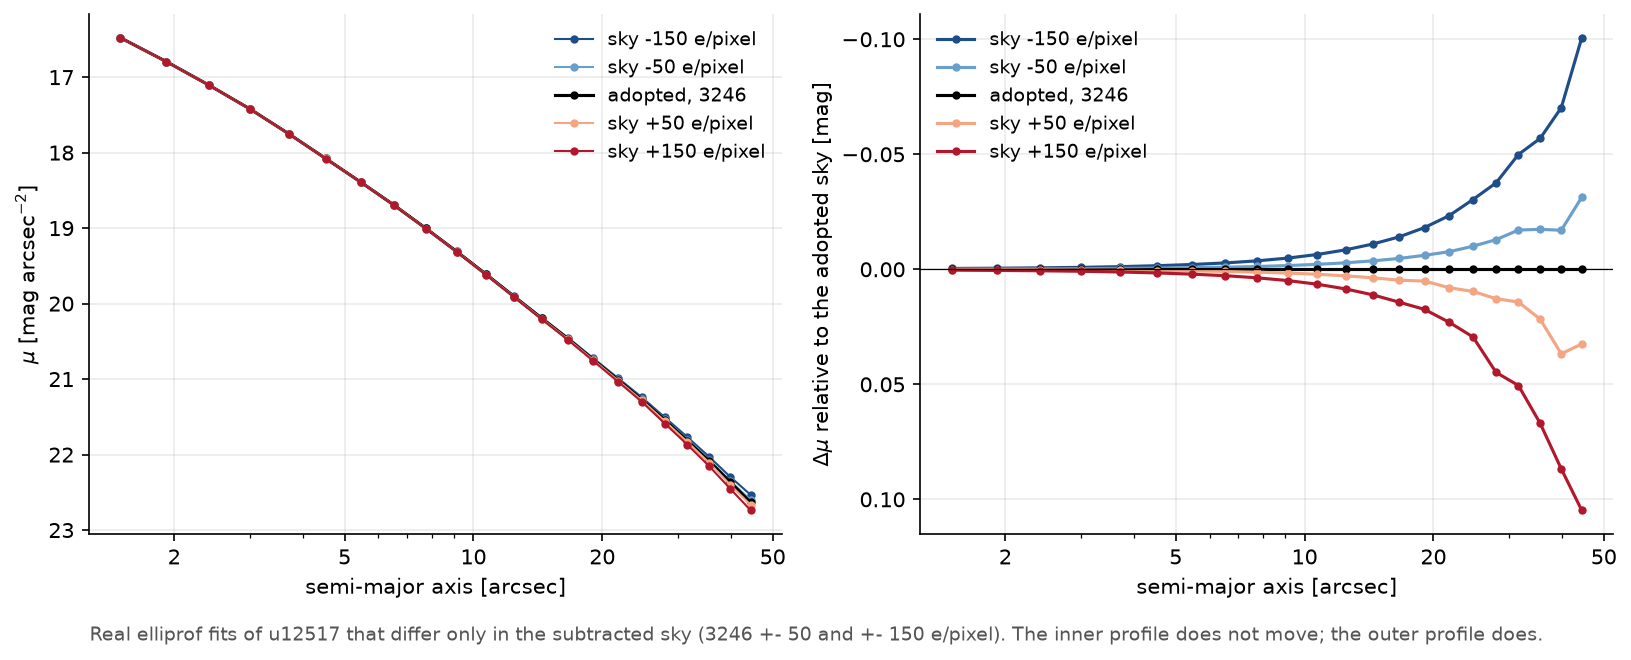
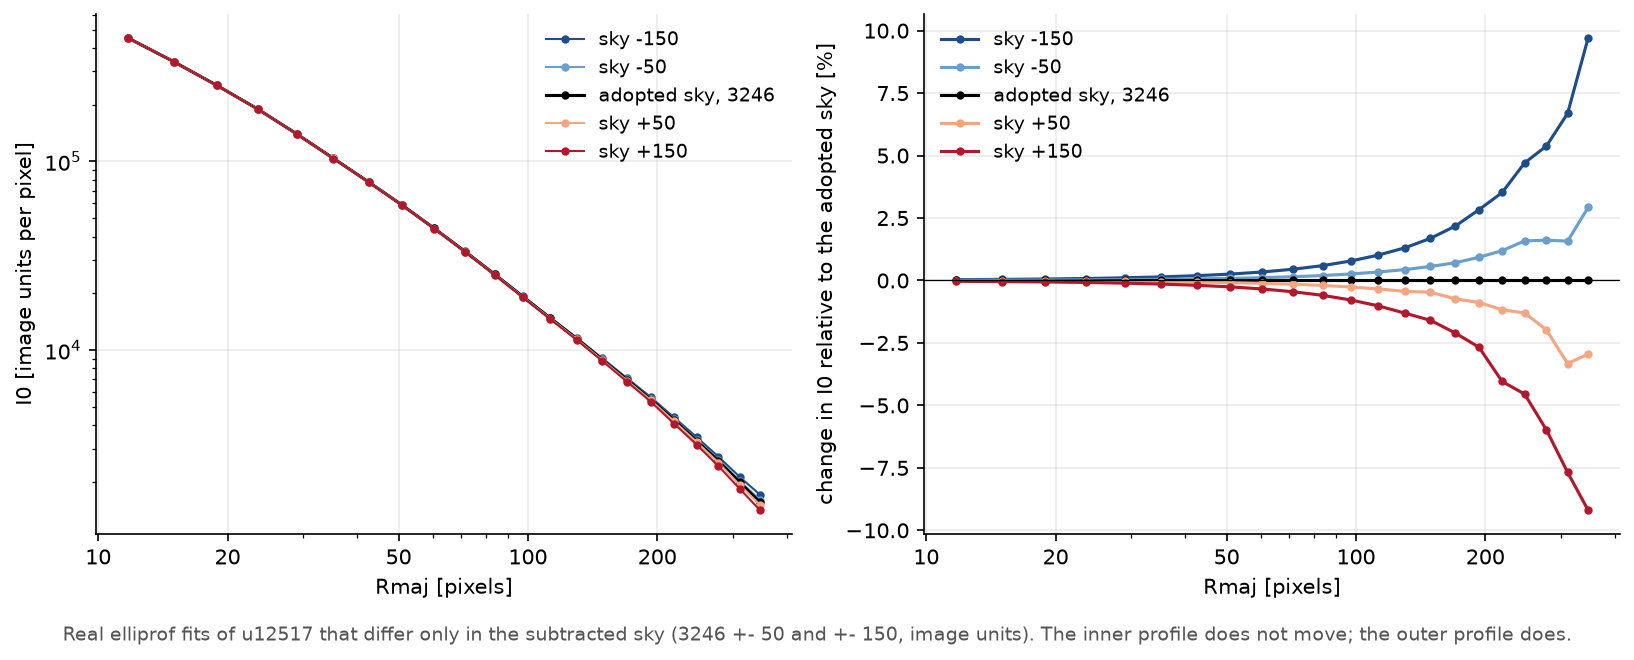
Docs: do not present a calibrated profile for the UGC 12517 example
The image header (BUNIT = ELECTRONS/S) and examples/u12517/calibrate.dat
disagree about the pixel units, so remove the mag/arcsec^2 figure and
values and show the example only in measured image units. The sky test
now plots I0 and its percentage change, which need no zeropoint. The
warning states the inconsistency without choosing an interpretation.

diff --git a/docs/scripts/make_profile_plots.py b/docs/scripts/make_profile_plots.py
@@ -1,15 +1,12 @@
 """Profile figures from the real u12517 fit: the full set of profile
-columns, a calibrated surface-brightness profile and the effect of the sky
-level on the outer profile.
+columns and the effect of the sky level on the outer profile.
 
     python docs/scripts/make_profile_plots.py
 
-The calibration numbers come from examples/u12517/calibrate.dat (from the
-original analysis; elliprof itself does not read that file):
-    SECPIX = 0.128 arcsec/pixel,  M1STAR_J = 35.081 ("m for 1e- net"),
-    SKY_J = 3250 ("e/pixel"), SKYMAG_J = 21.84 mag/arcsec^2.
-PROVISIONAL: the image header says BUNIT = ELECTRONS/S, while these numbers
-are consistent with pixel values in total electrons.  Unresolved; see
+Everything is in the measured image units.  No photometric calibration is
+applied: the units of the example image are unresolved (its header says
+BUNIT = ELECTRONS/S, while examples/u12517/calibrate.dat is internally
+consistent only with total electrons); see
 docs/science/surface-photometry.md.
 """
 
@@ -20,13 +17,7 @@ import common as C
 from elliprof import read_profile
 
 plt.rcParams.update(C.STYLE)
-SCALE, M1STAR = 0.128, 35.081
 PROF = C.products()["profile"].iloc[1:]     # r = 9 lies in the masked nucleus
-
-
-def mu(intensity):
-    """mag/arcsec^2 from counts per pixel (no extinction or K-correction)."""
-    return M1STAR - 2.5 * np.log10(intensity / SCALE ** 2)
 
 
 def unwrap(alpha):
@@ -69,32 +60,9 @@ def profile_panels():
     C.save(fig, "profile_panels.png")
 
 
-def surface_brightness():
-    r_as = PROF.Rmaj * SCALE
-    fig, axes = plt.subplots(1, 2, figsize=(11, 4.2))
-    for ax, x, lab in ((axes[0], r_as, "semi-major axis [arcsec]"),
-                       (axes[1], r_as ** 0.25, "(semi-major axis / arcsec)^(1/4)")):
-        ax.plot(x, mu(PROF.I0), "o-", ms=3, color=C.INK)
-        ax.axhline(21.84, color=C.ACCENT, ls="--", lw=1)
-        ax.text(x.iloc[0], 21.84 - 0.25, "sky: 21.84 mag/arcsec$^2$",
-                color=C.ACCENT, fontsize=9)
-        ax.set_xlabel(lab)
-        ax.set_ylabel(r"$\mu$ [mag arcsec$^{-2}$]")
-        ax.invert_yaxis()
-    C.logx(axes[0])
-    axes[1].set_title("A de Vaucouleurs r$^{1/4}$ law is a straight line here",
-                      fontsize=10)
-    fig.text(0.5, -0.03, r"$\mu = m_{1\star} - 2.5\log_{10}(I_0 / s^2)$ with "
-             r"$m_{1\star}=35.081$ (M1STAR_J, calibrate.dat), "
-             r"$s = 0.128''$/pixel. PROVISIONAL: image units unresolved "
-             "(BUNIT vs calibrate.dat). No extinction or K-correction.",
-             ha="center", fontsize=9, color="#555555")
-    fig.tight_layout()
-    C.save(fig, "surface_brightness_u12517.png")
-
-
 def sky_sensitivity():
-    """Real re-fits with the subtracted sky changed by +-1.5% and +-4.6%."""
+    """Real re-fits with the subtracted sky changed by +-50 and +-150 image
+    units (the adopted sky is 3246)."""
     skies = (3096.0, 3196.0, 3246.0, 3296.0, 3396.0)
     colours = ("#1d4e89", "#6a9fcb", "k", "#f4a582", "#b2182b")
     prof = {}
@@ -108,30 +76,27 @@ def sky_sensitivity():
     for sky, col in zip(skies, colours):
         p = prof[sky]
         d = sky - 3246.0
-        lab = "adopted, 3246" if d == 0 else f"sky {d:+.0f} e/pixel"
-        r = p.Rmaj * SCALE
-        axes[0].plot(r, mu(np.clip(p.I0, 1e-3, None)), "o-", ms=3,
-                     color=col, label=lab, lw=1.5 if d == 0 else 1)
-        axes[1].plot(r, mu(np.clip(p.I0, 1e-3, None)) - mu(ref.I0), "o-",
-                     ms=3, color=col, label=lab)
-    axes[0].set_ylabel(r"$\mu$ [mag arcsec$^{-2}$]")
-    axes[0].invert_yaxis()
-    axes[1].set_ylabel(r"$\Delta\mu$ relative to the adopted sky [mag]")
+        lab = "adopted sky, 3246" if d == 0 else f"sky {d:+.0f}"
+        axes[0].plot(p.Rmaj, p.I0, "o-", ms=3, color=col, label=lab,
+                     lw=1.5 if d == 0 else 1)
+        axes[1].plot(p.Rmaj, 100 * (p.I0 / ref.I0 - 1), "o-", ms=3,
+                     color=col, label=lab)
+    axes[0].set_yscale("log")
+    axes[0].set_ylabel("I0 [image units per pixel]")
+    axes[1].set_ylabel("change in I0 relative to the adopted sky [%]")
     axes[1].axhline(0, color="k", lw=0.6)
-    axes[1].invert_yaxis()
     for ax in axes:
         C.logx(ax)
-        ax.set_xlabel("semi-major axis [arcsec]")
+        ax.set_xlabel("Rmaj [pixels]")
         ax.legend(frameon=False, fontsize=9)
     fig.text(0.5, -0.03, "Real elliprof fits of u12517 that differ only in "
-             "the subtracted sky (3246 +- 50 and +- 150 e/pixel). The inner "
-             "profile does not move; the outer profile does.", ha="center",
-             fontsize=9, color="#555555")
+             "the subtracted sky (3246 +- 50 and +- 150, image units). The "
+             "inner profile does not move; the outer profile does.",
+             ha="center", fontsize=9, color="#555555")
     fig.tight_layout()
     C.save(fig, "sky_sensitivity.png")
 
 
 if __name__ == "__main__":
     profile_panels()
-    surface_brightness()
     sky_sensitivity()

diff --git a/docs/scripts/make_isophote_diagram.py b/docs/scripts/make_isophote_diagram.py
@@ -192,7 +192,7 @@ def rmstar():
     axes[1].text(2, top, "  (bright peaks run off the top)", fontsize=8,
                  va="top", color="#555555")
     axes[1].set_xlabel("eccentric angle [deg]")
-    axes[1].set_ylabel("science - sky [e/pixel]")
+    axes[1].set_ylabel("science - sky [image units]")
     axes[1].set_xlim(0, 359)
     axes[1].legend(frameon=False, fontsize=8, loc="upper left",
                    bbox_to_anchor=(0, -0.14), ncol=4)

diff --git a/docs/science/surface-photometry.md b/docs/science/surface-photometry.md
@@ -32,51 +32,32 @@ For publication-quality photometry you would also correct for Galactic
 extinction and, for distant galaxies, apply a K-correction and the
 $(1+z)^4$ cosmological surface-brightness dimming.
 
-### Worked example: UGC 12517
+### The UGC 12517 example is not calibrated
 
-The repository's `examples/u12517/calibrate.dat` holds the calibration
-from the original analysis (elliprof does not read it):
+On this site, the UGC 12517 profile is shown only in the measured image
+units: `I0` per pixel, exactly as ELLIPROF reports it. No
+surface-brightness profile in mag/arcsec² is given for it, because the
+units of the image are unresolved.
 
-| | |
-|---|---|
-| pixel scale $s$ | 0.128″ / pixel |
-| `M1STAR_J` ("m for 1e- net") | 35.081 mag |
-| `M1_J` ("m for 1 e/sec") | 26.822 mag |
-| `ETIME_J` (exposure time) | 2011.7 s |
-| `SKY_J` ("e/pixel") | 3250 |
-| `SKYMAG_J` | 21.84 mag arcsec⁻² |
+!!! warning "Unresolved: the units of the UGC 12517 image"
+    - The FITS header gives `BUNIT = 'ELECTRONS/S'`.
+    - The supporting file `examples/u12517/calibrate.dat`, from the
+      original analysis (elliprof does not read it), gives two
+      zeropoints: `M1_J` = 26.822 ("m for 1 e/sec") and `M1STAR_J` =
+      35.081 ("m for 1e- net"). They differ by 2.5 log₁₀ of its exposure
+      time, `ETIME_J` = 2011.7 s. Its sky entries, `SKY_J` = 3250
+      ("e/pixel") and `SKYMAG_J` = 21.84 mag arcsec⁻², agree with each
+      other only if the pixel values are total electrons.
 
-!!! warning "Unresolved: the units of the example image"
-    The image header and the calibration file do not agree on the units
-    of the pixel values.
+    The header and the calibration file therefore disagree about the
+    units of the pixel values. Which zeropoint applies depends on the
+    answer, and the two zeropoints differ by 8.26 mag. Converting this
+    profile to mag/arcsec² first requires resolving the image units and
+    the zeropoint and exposure-time convention. Until then, no calibrated
+    values are given.
 
-    - The FITS header says `BUNIT = 'ELECTRONS/S'`.
-    - Within `calibrate.dat`, the numbers agree with each other if the
-      pixel values are **total electrons**: 26.822 + 2.5 log₁₀(2011.7) =
-      35.081 (`M1_J` converted to `M1STAR_J`), and
-      35.081 − 2.5 log₁₀(3250 / 0.128²) = 21.84 (`SKY_J` converted to
-      `SKYMAG_J`). The sky level subtracted in the example (3246) is also
-      close to `SKY_J` (3250).
-
-    This has not been resolved. The calibrated profile below applies
-    `M1STAR_J` = 35.081 to the pixel values as they are. It is correct only
-    if the pixels are total electrons. If they are electrons per second,
-    the zeropoint is `M1_J` = 26.822, and every μ below would be 8.26 mag
-    smaller (brighter). Treat the calibrated numbers on this site as provisional.
-
-<figure markdown="span">
-  ![Two plots of the surface brightness of UGC 12517 in magnitudes per
-  square arcsecond, from about 16.5 at 1.5 arcseconds to 22.6 at 44
-  arcseconds. Left against the logarithm of the radius, curving
-  downwards. Right against the radius to the one-quarter power, very
-  nearly a straight line. A dashed line marks the sky brightness, 21.84
-  mag per square arcsecond, which the profile crosses at about 32
-  arcseconds.](../assets/surface_brightness_u12517.png)
-  <figcaption>The UGC 12517 profile calibrated with <code>M1STAR_J</code> = 35.081
-  (provisional: see the units warning above). Against r<sup>1/4</sup> it is
-  nearly straight, as for a de Vaucouleurs law. Beyond ~32″ the galaxy is
-  fainter than the sky. No extinction or K-correction is applied.</figcaption>
-</figure>
+Once the units are known, the conversion is the formula above, with the
+zeropoint that matches them and $s$ = 0.128″/pixel.
 
 ## The outer isophotes
 

diff --git a/docs/tutorials/u12517.md b/docs/tutorials/u12517.md
@@ -88,27 +88,19 @@ In short: a smooth profile, ellipticity 0.21 falling to 0.175 outside,
 no isophote twist, nearly pure ellipses (|a4/a| < 0.5%), and stable
 centres.
 
-## 6. Calibrate
+## 6. Calibration: not done for this example
 
-With the calibration from the original analysis
-(`examples/u12517/calibrate.dat`: `M1STAR_J` = 35.081 mag, 0.128″
-pixels), the surface brightness is
+The profile above is in the measured image units, `I0` per pixel. This
+tutorial does **not** convert it to mag/arcsec².
 
-$$ \mu = 35.081 - 2.5\log_{10}\!\left(\frac{I_0}{0.128^2}\right). $$
-
-<figure markdown="span">
-  ![The calibrated surface-brightness profile of UGC 12517, against log
-  radius and against radius to the one-quarter power, with the sky level
-  marked.](../assets/surface_brightness_u12517.png)
-  <figcaption>The profile in mag/arcsec² with M1STAR_J = 35.081, provisional
-  (no extinction or K-correction). It is close to an r<sup>1/4</sup> law.</figcaption>
-</figure>
-
-!!! warning "Provisional calibration"
-    The image header (`BUNIT = 'ELECTRONS/S'`) and `calibrate.dat` (whose
-    numbers are consistent with pixel values in total electrons) disagree
-    about the units. This is unresolved. See
-    [Galaxy surface photometry](../science/surface-photometry.md#worked-example-ugc-12517).
+!!! warning "The image units are unresolved"
+    The FITS header says `BUNIT = 'ELECTRONS/S'`. The supporting file
+    `examples/u12517/calibrate.dat` is internally consistent only if the
+    pixel values are total electrons. Converting to mag/arcsec² requires
+    resolving the image units and the zeropoint and exposure-time
+    convention first. See
+    [Galaxy surface photometry](../science/surface-photometry.md#the-ugc-12517-example-is-not-calibrated)
+    for the details and the general conversion.
 
 ## 7. Test the sky
 
@@ -122,10 +114,13 @@ done
 ```
 
 <figure markdown="span">
-  ![Surface-brightness profiles for several sky levels, identical in the
-  centre and diverging by up to 0.1 magnitudes in the
-  outskirts.](../assets/sky_sensitivity.png)
-  <figcaption>Changing the sky changes only the outer profile.</figcaption>
+  ![Two plots against semi-major axis for several sky levels. Left: the
+  isophote intensity, identical in the centre and spreading apart at
+  large radii. Right: the percentage change in intensity relative to the
+  adopted sky, zero in the centre and growing to about plus or minus 10
+  percent at the outermost isophote.](../assets/sky_sensitivity.png)
+  <figcaption>Changing the sky changes only the outer profile (measured
+  intensities, no calibration).</figcaption>
 </figure>
 
 ## 8. Look at the model and the residual

diff --git a/docs/concepts/sky-and-masks.md b/docs/concepts/sky-and-masks.md
@@ -50,15 +50,17 @@ out too bright if the sky was underestimated, and too faint (falling
 too steeply) if it was overestimated.
 
 <figure markdown="span">
-  ![Left: the surface-brightness profile of UGC 12517 for five sky levels,
-  3096 to 3396 electrons per pixel; the curves lie on top of each other
-  except at the largest radii. Right: the difference in magnitudes from
-  the adopted sky; it is zero in the centre and grows to about 0.1
-  magnitudes at 45 arcseconds for a sky error of 150 electrons per
-  pixel.](../assets/sky_sensitivity.png)
+  ![Left: the isophote intensity of UGC 12517 against semi-major axis for
+  five sky levels, 3096 to 3396 in image units; the curves lie on top of
+  each other except at the largest radii. Right: the percentage change in
+  intensity relative to the adopted sky; it is zero in the centre and
+  grows to about plus or minus 10 percent at the outermost isophote for a
+  sky change of 150.](../assets/sky_sensitivity.png)
   <figcaption>Real elliprof fits of UGC 12517 that differ only in the
-  subtracted sky. A sky error of 150 e/pixel (4.6% of the sky) changes the
-  outermost isophote by 0.1 mag. The inner profile does not move.</figcaption>
+  subtracted sky (measured intensities, no calibration). Changing the sky
+  by 150 image units (4.6% of the sky level) changes the outermost
+  isophote's intensity by about 10%, because there the sky is about twice
+  as bright as the galaxy. The inner profile does not move.</figcaption>
 </figure>
 
 !!! researcher "Measure the sky carefully"

diff --git a/docs/reference/architecture.md b/docs/reference/architecture.md
@@ -72,7 +72,7 @@ python docs/scripts/make_all.py          # writes docs/assets/*.png
 | Script | Figures |
 |---|---|
 | `make_u12517_overview.py` | home-page hero, preparation chain, model, residual, model harmonics, WCS alignment, SBF residual illustration (real data) |
-| `make_profile_plots.py` | profile panels, calibrated surface brightness, sky sensitivity (real data, real re-fits) |
+| `make_profile_plots.py` | profile panels and sky sensitivity, in measured image units (real data, real re-fits) |
 | `make_isophote_diagram.py` | isophote geometry and eccentric angle (schematic); RLAW spacing (exact); RMSTAR and fitted centres (real data) |
 | `make_boxy_disky_diagram.py` | boxy/disky shapes (schematic); a4/a recovery (real fits of synthetic images) |
 | `make_sbf_workflow.py` | the SBF workflow diagram |
